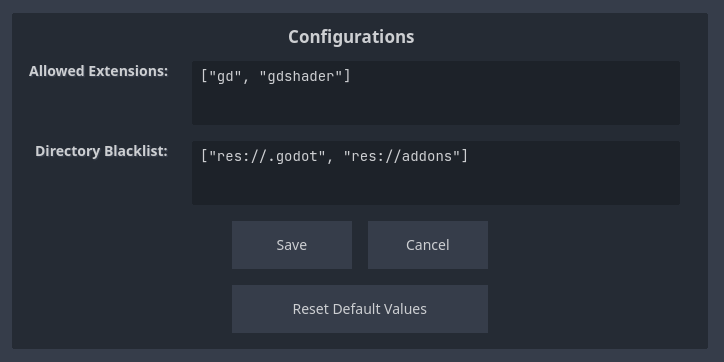
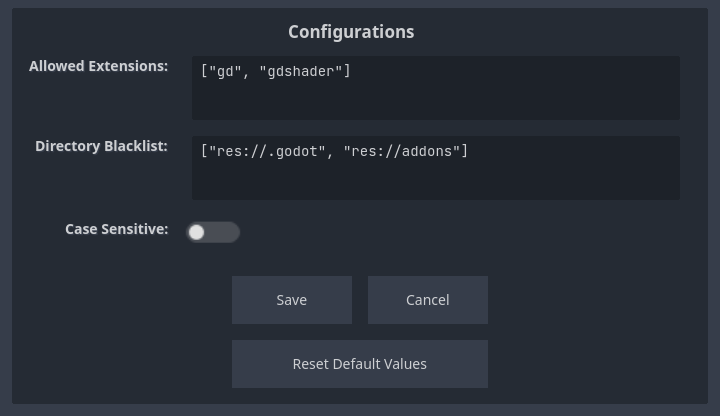
update readme

diff --git a/readme.md b/readme.md
@@ -24,8 +24,21 @@ You can easily edit the Configurations by clicking the config button on the Sear
 
 This will open the Configuration Window, where you can change the parameters:
 
-  - `Allowed Extensions`: What extensions should be included in the search. Default: `["gd", "gdshader"]`
-  - `Directory Blacklist`: What directories should not be included in the search. Default: `["res://.godot", "res://addons"]`
+  - `Allowed Extensions`: What extensions should be included in the search. 
+    
+    Default: `["gd", "gdshader"]`
+  
+  - `Directory Blacklist`: What directories should not be included in the search. 
+    
+    Default: `["res://.godot", "res://addons"]`
+  
+  - `Case Sensitive`: When enabled, differentiates upper and lower case text.
+    
+    Default: `false`
+  
+![Configuration Menu](docs/img-03.png)
+
+Click the `Save` button to apply the changes made to the configurations.
 
 ### Changing the shortcut
 
@@ -33,7 +46,7 @@ To modify the default shortcut, navigate to `Project > Project Settings`.
 
 In the `Input Map` tab, add a new action called `addon_script_search_open` and assign an event to it, with the desired key combination:
 
-![Alt text](docs/img-04.png)
+![Changing default shortcut](docs/img-04.png)
 
 Reload the plugin, and the new shortcut should take effect.
 
